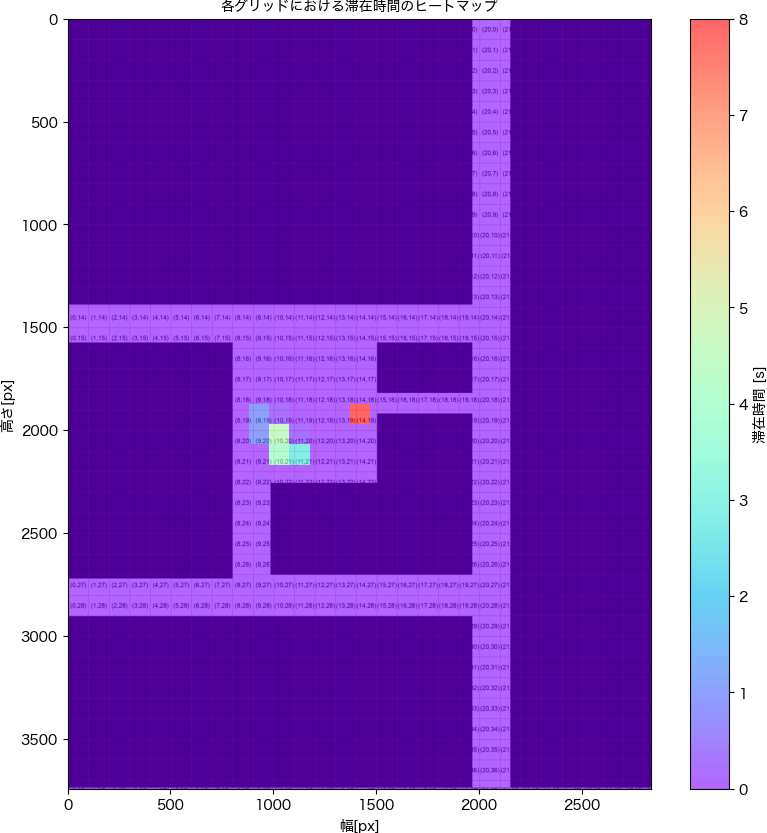
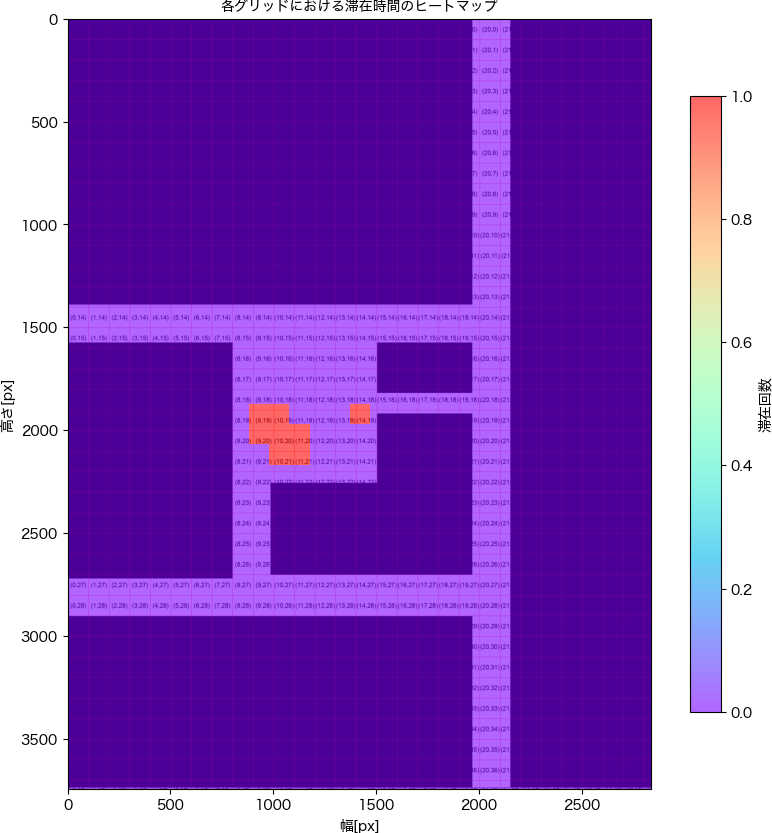
[add]滞在回数

diff --git a/src/main.py b/src/main.py
@@ -3,6 +3,7 @@ from setup_grid_and_background import setup_grid_and_background
 from load_trajectory_data import load_trajectory_data
 from transform_trajectory import transform_trajectory
 from calculate_stay_time import calculate_stay_time
+from calculate_stay_count import calculate_stay_count
 from visualize_and_save_heatmap import visualize_and_save_heatmap
 
 from PIL import Image, ImageDraw, ImageFont
@@ -16,6 +17,13 @@ if __name__ == '__main__':
     MAP_WIDTH_PX = 2837
     MAP_HEIGHT_PX = 3742
     GRID_SIZE_PX = 100
+
+    # ==================================================================
+    # ★ 計算モードを設定 ('count' または 'time')
+    # 'count': 滞在回数でヒートマップを作成
+    # 'time' : 滞在時間でヒートマップを作成
+    CALCULATION_MODE = 'count'
+    # ==================================================================
     
     # 2. 背景画像とグリッド情報を準備
     background_image, grid_data, num_grids_x, num_grids_y = setup_grid_and_background(
@@ -36,7 +44,7 @@ if __name__ == '__main__':
         },
         {
             'scale': 1.0,         #x 1mあたり1pxに変換
-            'angle_deg': 180.0,     # 180度回転
+            'angle_deg':180.0,     # 180度回転
             'initial_position': (8, 21) # 軌跡の開始
         }
     ]
@@ -45,7 +53,9 @@ if __name__ == '__main__':
 
     
     ##  全軌跡の滞在時間を合算するための配列をゼロで初期化
-    total_stay_times = np.zeros((num_grids_y, num_grids_x))
+    # total_stay_times = np.zeros((num_grids_y, num_grids_x))
+     # 全軌跡の値を合算するための配列をゼロで初期化
+    total_values = np.zeros((num_grids_y, num_grids_x))
     
     for file_path, transform_params in zip(TRAJECTORY_FILE_PATHS, TRANSFORM_PARAMS_LIST):
         print(f"Processing file: {file_path} with transform params: {transform_params}")
@@ -63,29 +73,41 @@ if __name__ == '__main__':
             MAP_WIDTH_PX,
             MAP_HEIGHT_PX
         )
-    
-        # 滞在時間の計算
-        stay_times = calculate_stay_time(
-            df_transformed,
-            GRID_SIZE_PX,
-            MAP_WIDTH_PX,  
-            MAP_HEIGHT_PX,
-        )
+        print(f"df_transformed'{ df_transformed}")
+
+        if CALCULATION_MODE == 'time':
+                # 滞在時間の計算
+            calculated_values = calculate_stay_time(
+                df_transformed,
+                GRID_SIZE_PX,
+                MAP_WIDTH_PX,  
+                MAP_HEIGHT_PX,
+                
+            )
+            colorbar_label = "滞在時間 (秒)"
+
+        elif CALCULATION_MODE == 'count':
+            calculated_values = calculate_stay_count(
+                df_transformed,
+                GRID_SIZE_PX,
+            )
+            colorbar_label = "滞在回数"
         
-        # 滞在時間があったグリッドの情報をループで取り出し、total_stay_timesを更新する
-        for grid_id, time in stay_times.items():
+        # 計算結果を合算する
+        for grid_id, value in calculated_values.items():
             col, row = grid_id
-            if 0 <= row < total_stay_times.shape[0] and 0 <= col < total_stay_times.shape[1]:
-                total_stay_times[row, col] += time
-    
+            if 0 <= row < total_values.shape[0] and 0 <= col < total_values.shape[1]:
+                total_values[row, col] += value
     
     # 結果の可視化と保存
     visualize_and_save_heatmap(
-        total_stay_times,
+        # total_stay_times,
+        total_values,
         background_image,
         num_grids_x,
         num_grids_y,
         MAP_WIDTH_PX,
         MAP_HEIGHT_PX,
-        OUTPUT_IMAGE_PATH
+        OUTPUT_IMAGE_PATH,
+        colorbar_label=colorbar_label
     )

diff --git a/src/visualize_and_save_heatmap.py b/src/visualize_and_save_heatmap.py
@@ -2,7 +2,7 @@ import matplotlib.pyplot as plt
 import numpy as np
 import pandas as pd
 
-def visualize_and_save_heatmap(stay_time_per_grid, background_img, num_grids_x, num_grids_y, map_width_px, map_height_px, output_path):
+def visualize_and_save_heatmap(stay_time_per_grid, background_img, num_grids_x, num_grids_y, map_width_px, map_height_px, output_path, colorbar_label):
     """
     滞在時間データをヒートマップとして可視化し、画像として保存する。
 
@@ -31,7 +31,6 @@ def visualize_and_save_heatmap(stay_time_per_grid, background_img, num_grids_x, 
     #         # 予期せぬ形式のgrid_id（Noneなど）を無視し、警告を表示する
     #         print(f"範囲外または予期せぬgrid_idをスキップしました: {grid_id}")
 
-
     fig, ax = plt.subplots(figsize=(10,10), dpi=100)
     ax.imshow(background_img, extent=[0, map_width_px, map_height_px, 0])
 
@@ -42,8 +41,8 @@ def visualize_and_save_heatmap(stay_time_per_grid, background_img, num_grids_x, 
         extent=[0, map_width_px, map_height_px, 0],
     )
     
-    cbar = fig.colorbar(heatmap, ax=ax)
-    cbar.set_label('滞在時間 [s]', fontsize=10)
+    # ★引数で受け取ったラベルをカラーバーに設定
+    cbar = fig.colorbar(heatmap, ax=ax, label=colorbar_label, shrink=0.8)
     ax.set_title('各グリッドにおける滞在時間のヒートマップ', fontsize=10)
     ax.set_xlabel('幅[px]', fontsize=10)
     ax.set_ylabel('高さ[px]', fontsize=10)

diff --git a/src/calculate_stay_count.py b/src/calculate_stay_count.py
@@ -1,0 +1,33 @@
+def calculate_stay_count(df_transformed, GRID_SIZE_PX):
+    """
+    軌跡データから各グリッドへの滞在回数を計算する。
+    同じグリッドに留まり続けている場合は1回とカウントし、
+    別のグリッドに移動したタイミングでカウントを増やす。
+
+    Args:
+        df_transformed (pd.DataFrame): 変換後の軌跡データ。'transformed_x', 'transformed_y' カラムを持つ。
+        GRID_SIZE_PX (int): グリッドの1辺のピクセルサイズ。
+
+    Returns:
+        dict: 各グリッドIDをキー、滞在回数を値とする辞書。例: {(col, row): count}
+    """
+
+    df_transformed = df_transformed[df_transformed['stay'] == True].copy()
+
+    if df_transformed.empty:
+        return {}
+
+    # 各点のグリッドIDを計算
+    df_transformed['grid_col'] = (df_transformed['x_final'] // GRID_SIZE_PX).astype(int)
+    df_transformed['grid_row'] = (df_transformed['y_final'] // GRID_SIZE_PX).astype(int)
+
+    # 前の点とグリッドIDが異なる点のみを抽出（グリッドの移動を検出）
+    grid_visits = df_transformed[
+        (df_transformed['grid_col'] != df_transformed['grid_col'].shift(1)) |
+        (df_transformed['grid_row'] != df_transformed['grid_row'].shift(1))
+    ]
+
+    # グリッドごとの訪問回数をカウント
+    stay_counts = grid_visits.groupby(['grid_col', 'grid_row']).size().to_dict()
+
+    return stay_counts
